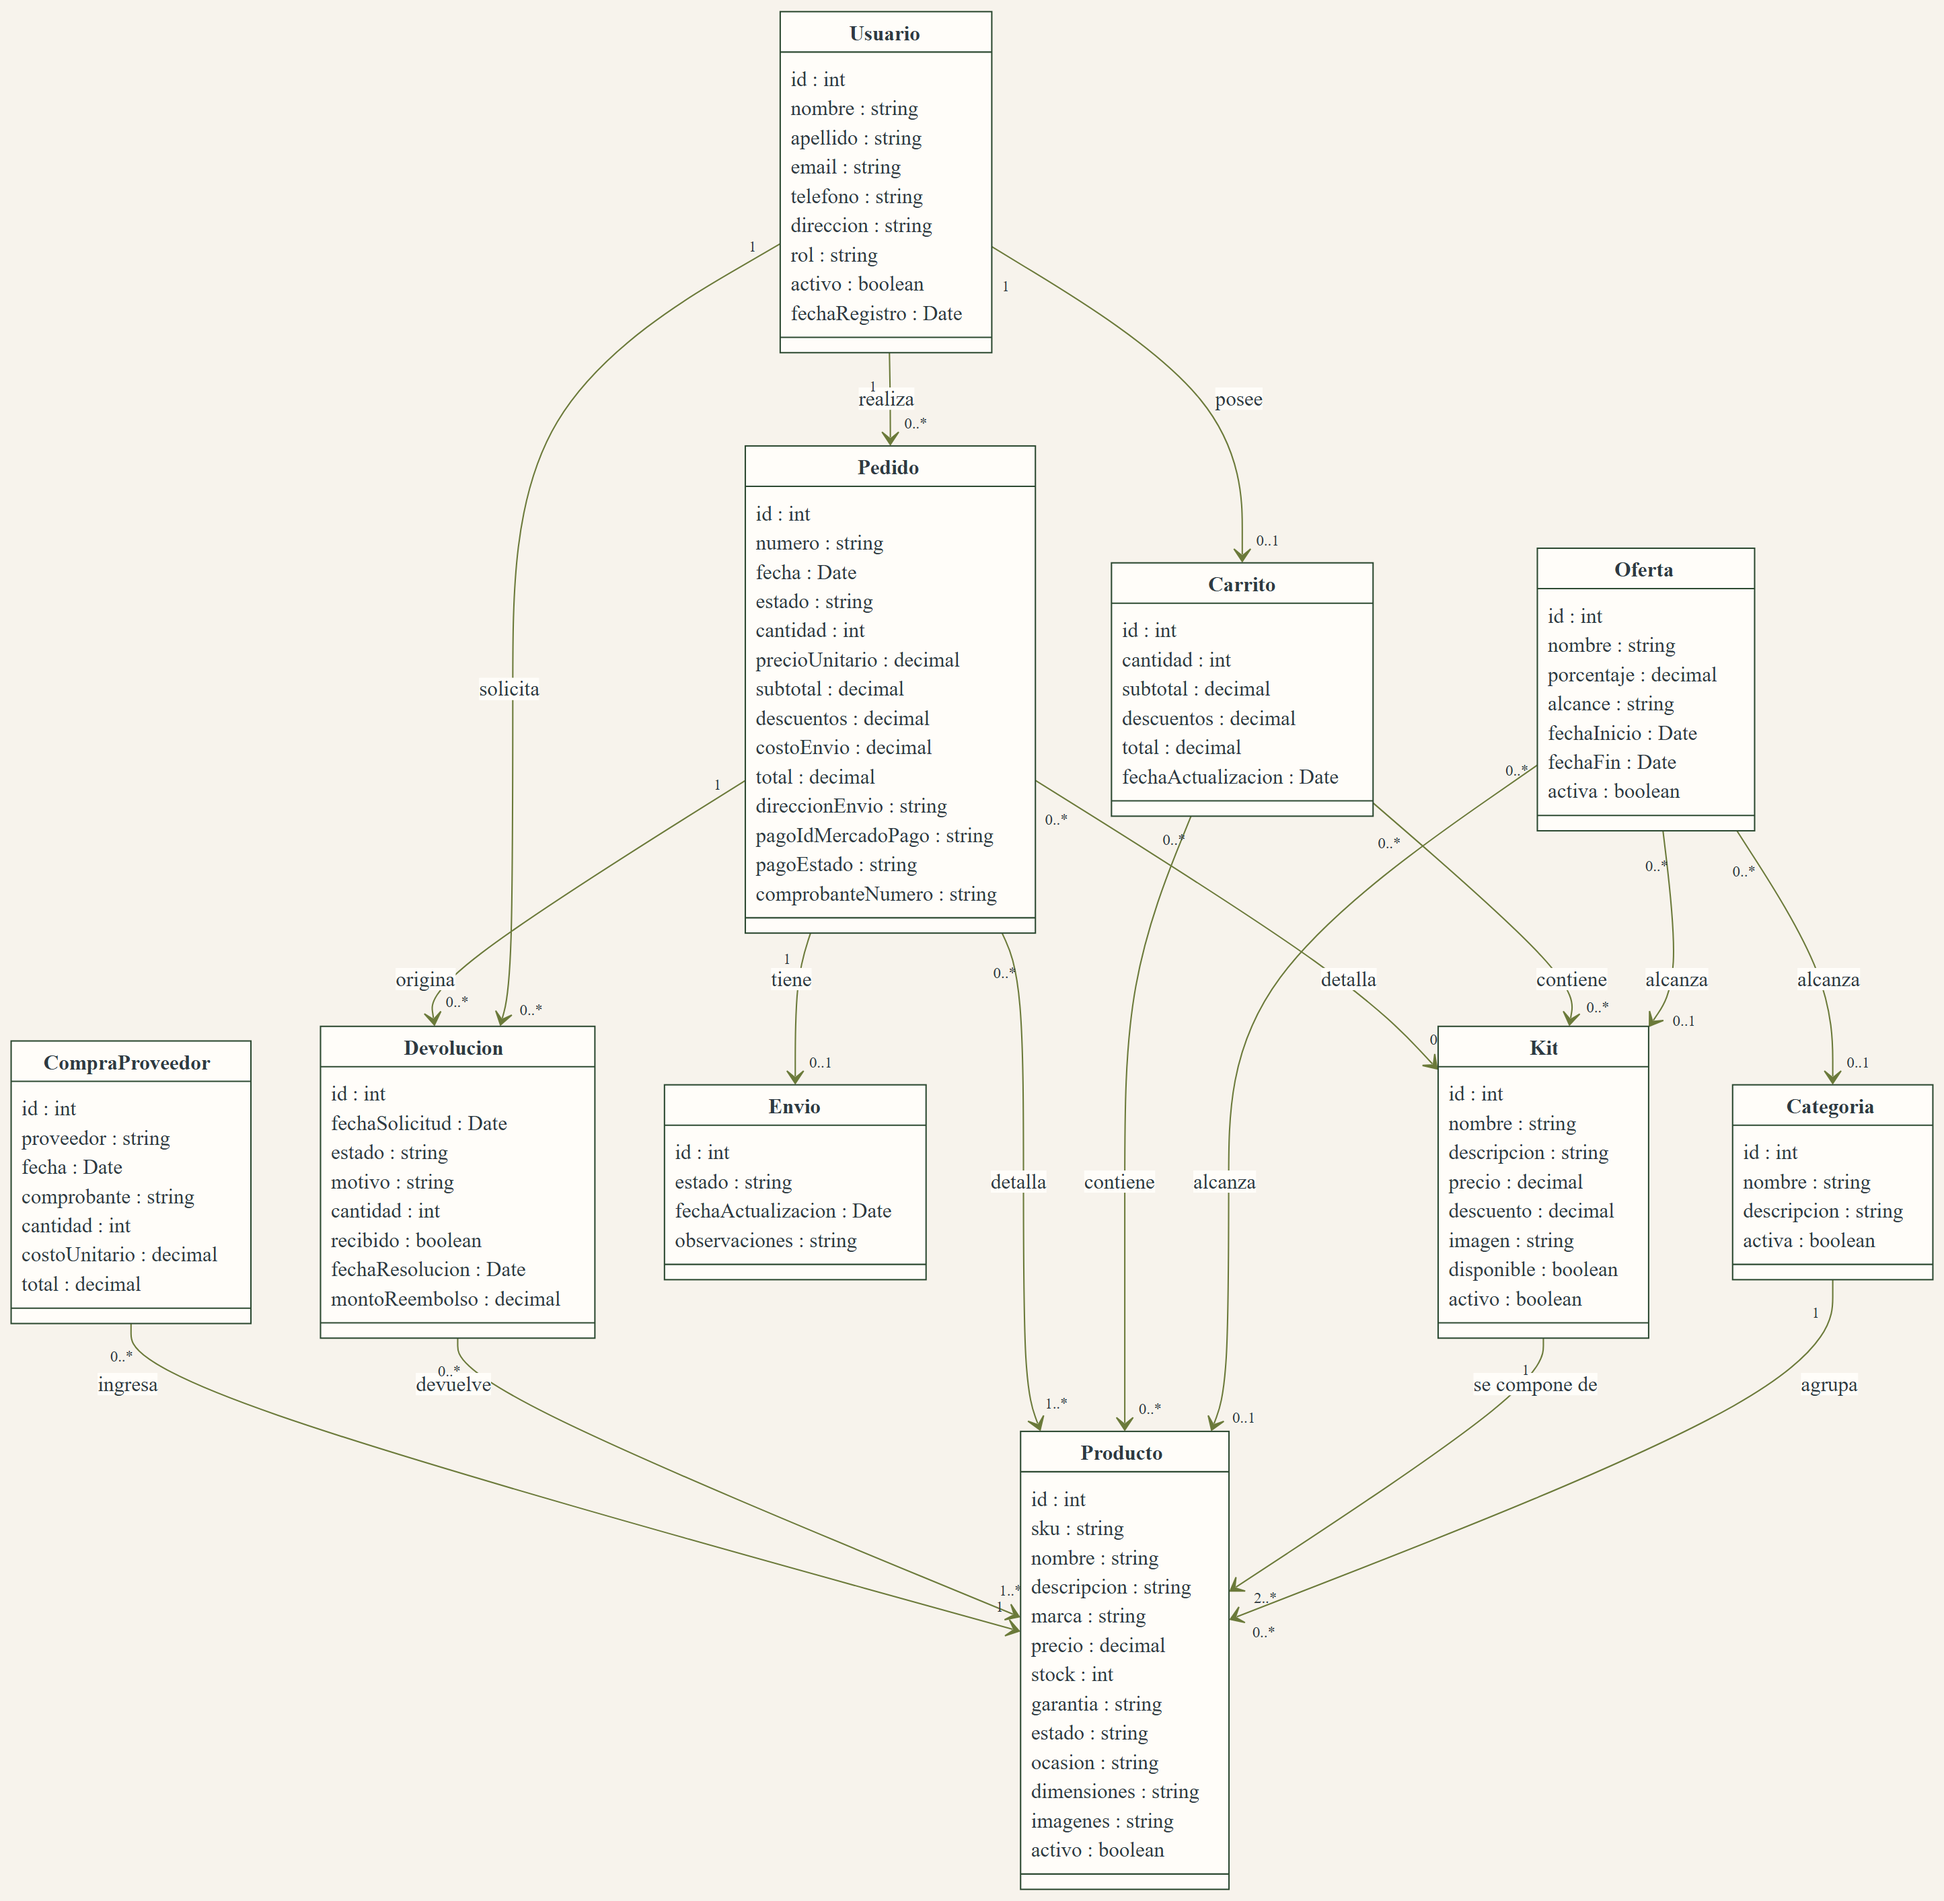
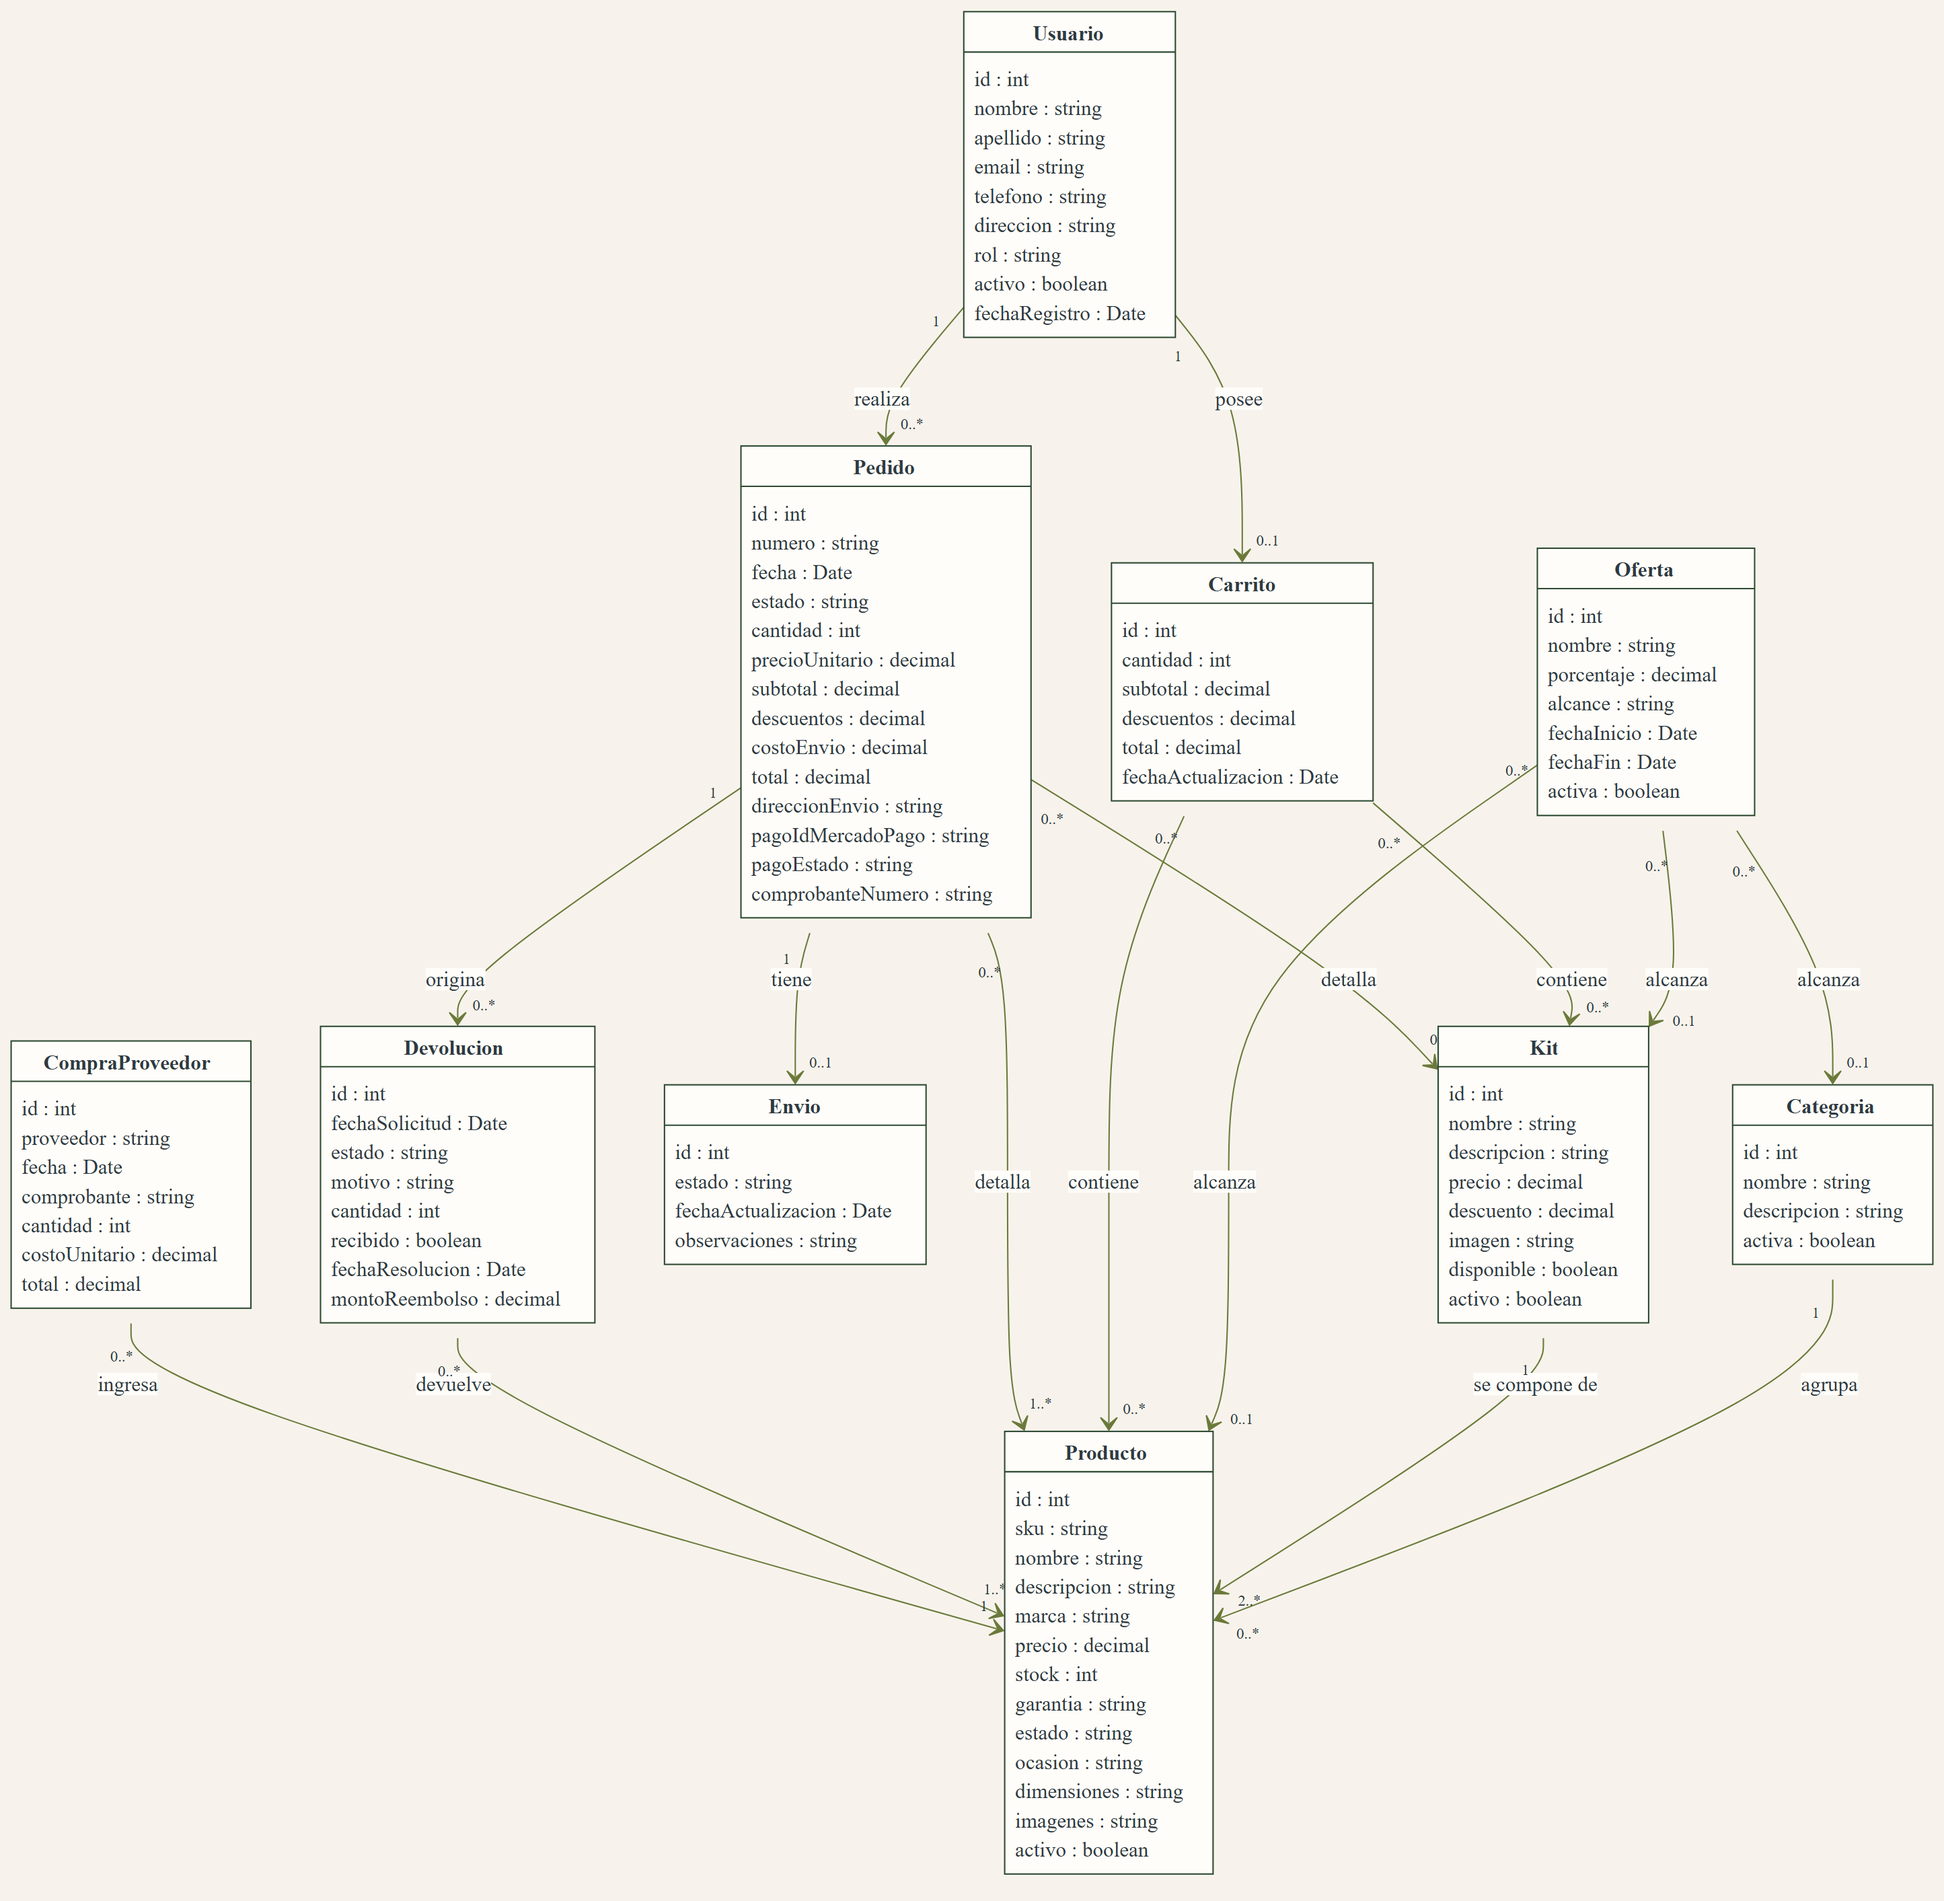
docs: la devolucion cuelga solo del pedido y se saca el hueco de metodos
Se quita la relacion Usuario --> Devolucion: toda devolucion nace de una
compra, asi que quien la solicito se sabe siguiendo Pedido --> Usuario.
Tenerla directa era el mismo dato por dos caminos.

Las cajas dejan de mostrar el compartimento de metodos, que quedaba
vacio: el modelo es de entidades y solo declara atributos.

diff --git a/docs/diagrama-de-clases.md b/docs/diagrama-de-clases.md
@@ -129,7 +129,6 @@ classDiagram
 
     Usuario "1" --> "0..*" Pedido : realiza
     Usuario "1" --> "0..1" Carrito : posee
-    Usuario "1" --> "0..*" Devolucion : solicita
 
     Categoria "1" --> "0..*" Producto : agrupa
 
@@ -220,6 +219,8 @@ Simulado: el administrador mueve el estado a mano y cada cambio notifica al clie
 ### Devolución
 
 La solicitud no toca el stock (UC13). El reingreso ocurre cuando el administrador aprueba y se recibe la mercadería; `recibido` habilita ese reingreso y permite la devolución parcial (UC25).
+
+Cuelga del pedido, no del usuario: toda devolución nace de una compra, así que quién la solicitó se sabe siguiendo `Pedido → Usuario`. Una relación directa desde `Usuario` sería el mismo dato por dos caminos.
 
 `solicitada → aprobada | rechazada → reembolsada`
 
